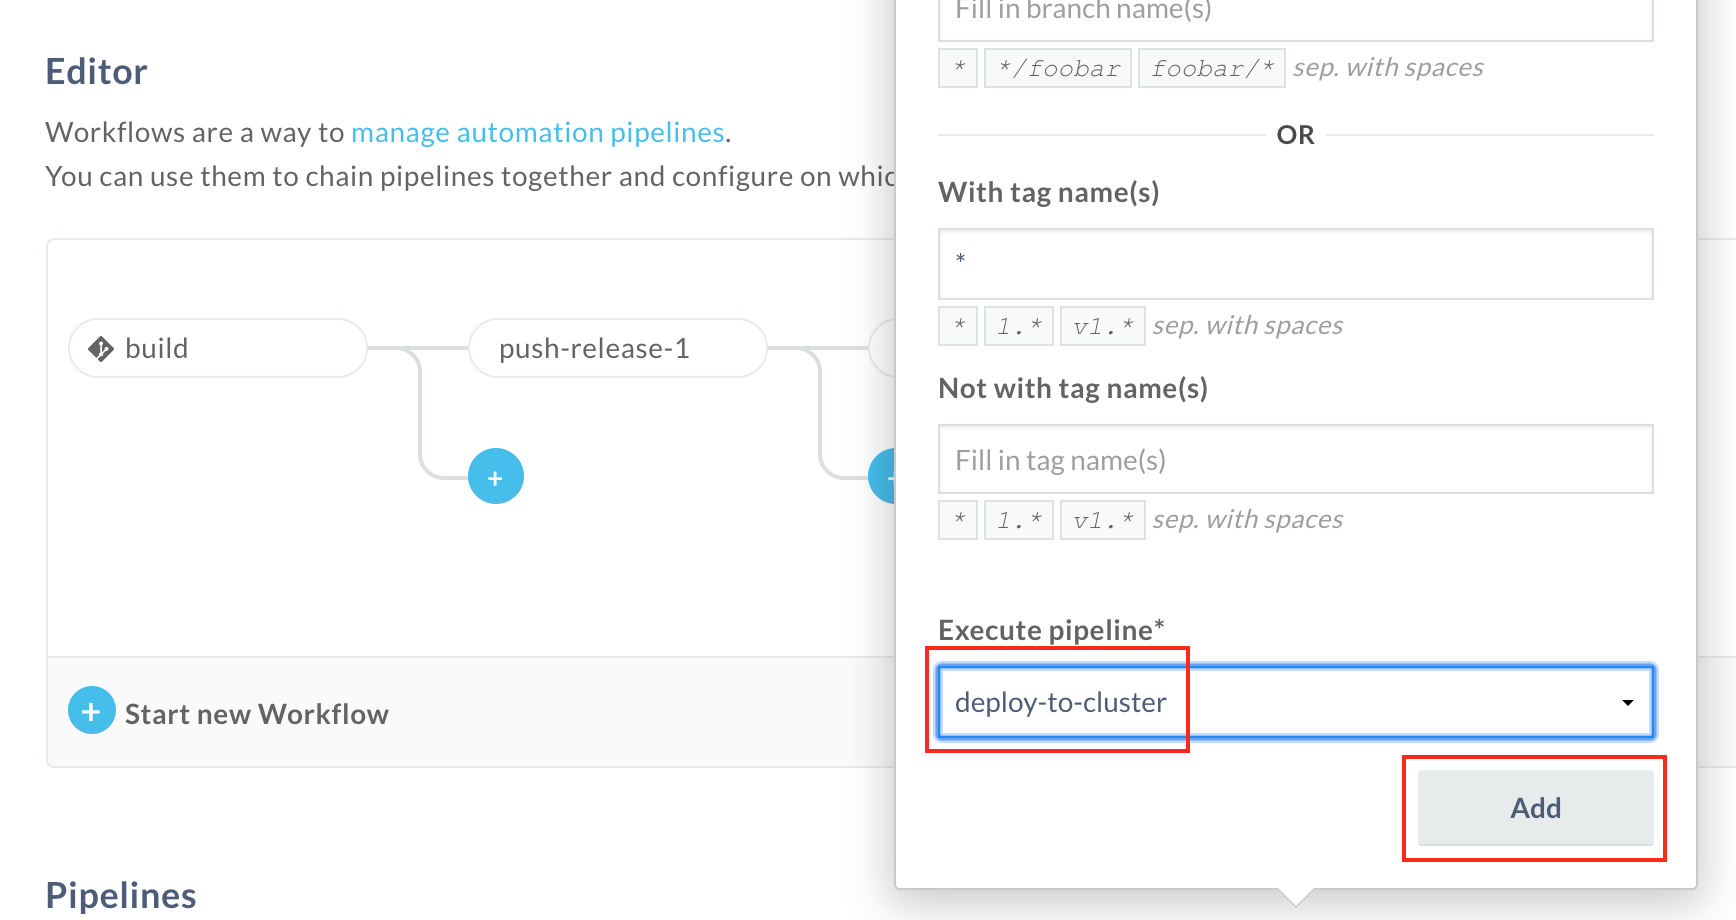
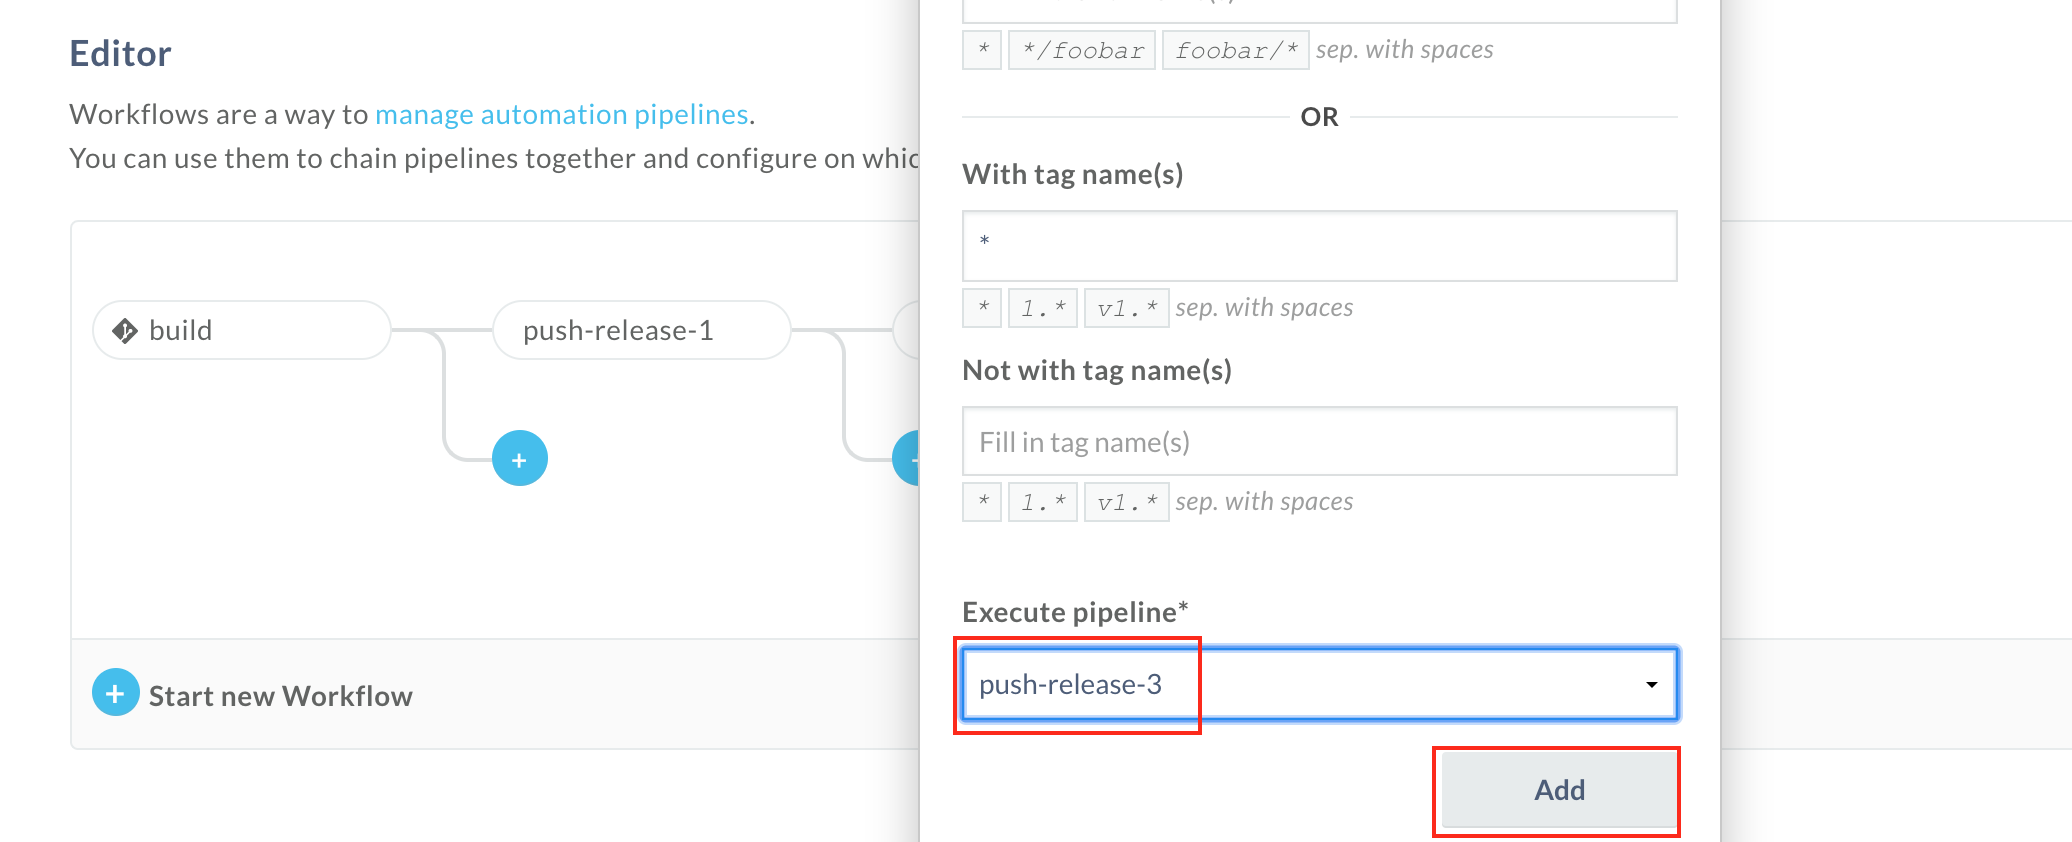
2019-07-07 16:32:56

diff --git a/springboot-movie-people-api/src/main/java/com/example/moviepeople/controller/MoviePeopleCollectController.java b/springboot-movie-people-api/src/main/java/com/example/moviepeople/controller/MoviePeopleCollectController.java
@@ -12,6 +12,7 @@ import org.springframework.boot.SpringApplication;
 import org.springframework.boot.autoconfigure.EnableAutoConfiguration;
 import org.springframework.data.domain.Page;
 import org.springframework.data.domain.Pageable;
+import org.springframework.web.bind.annotation.CrossOrigin;
 import org.springframework.web.bind.annotation.PathVariable;
 import org.springframework.web.bind.annotation.RequestMapping;
 import org.springframework.web.bind.annotation.RequestMethod;
@@ -19,6 +20,7 @@ import org.springframework.web.bind.annotation.RestController;
 
 @RestController
 @EnableAutoConfiguration
+@CrossOrigin("*")
 public class MoviePeopleCollectController {
 
     @Autowired

diff --git a/README.md b/README.md
@@ -380,6 +380,14 @@ TO-DO 다운로드 할 수 있는 경로를 따로 지정해서 설치하도록 
       steps:
         - internal/springboot-docker-push:
             .... spring-boot 서비스 컨테이너 이미지 생성, 이미지 푸시
+    push-release-3:
+      steps:
+        - script:
+            .... 
+        - internal/docker-build:
+            .... 2개의 서비스를 사용하는 프론트엔드 애플리케이션 컨테이너 이미지 생성, 이미지 푸시
+        - internal/docker-push:
+            .... 이미지 푸시
 
     # deploy-to-cluster 파이프라인 입니다. 두 개의 서비스에 대한 Pod를 Kubernetes 노드에 생성하고 서비스로 노출합니다.
     deploy-to-cluster:
@@ -413,6 +421,13 @@ TO-DO 다운로드 할 수 있는 경로를 따로 지정해서 설치하도록 
       - kubectl:
           name: deploy springboot-movie-people-api to kubernetes
           ... springboot-movie-people-api 서비스 Pod 생성
+      - script:
+          name: "Visualise Kubernetes config"
+          code: cat kube-jet-movie-msa-ui-config.yml
+
+      - kubectl:
+          name: deploy jet-movie-msa-ui to kubernetes
+          ... jet-movie-msa-ui 서비스 Pod 생성
     ```
 
 * 위 wercker.yml에는 다음과 같이 4개의 파이프라인을 임의로 지정했습니다. 
@@ -437,7 +452,11 @@ TO-DO 다운로드 할 수 있는 경로를 따로 지정해서 설치하도록 
 
     ![](images/wercker-create-pipeline-push-2.png)
 
-* 상단 **Workflows**탭을 클릭 후 동일하게 네 번째 파이프라인인 **deploy-to-cluster**를 입력하고 **Create**버튼을 클릭합니다.
+* 동일하게 네 번째 파이프라인인 **push-release-3**를 입력하고 **Create**버튼을 클릭합니다.
+
+    ![](images/wercker-create-pipeline-push-3.png)
+
+* 동일하게 다섯 번째 파이프라인인 **deploy-to-cluster**를 입력하고 **Create**버튼을 클릭합니다.
 
     ![](images/wercker-create-pipeline-2.png)
 
@@ -461,9 +480,17 @@ TO-DO 다운로드 할 수 있는 경로를 따로 지정해서 설치하도록 
 
     ![](images/wercker-workflow-add-4.png)
 
-* **deploy-to-cluster** 선택 후 **Add**버튼을 클릭 합니다.
+* **push-release-3** 선택 후 **Add**버튼을 클릭 합니다.
 
     ![](images/wercker-workflow-add-5.png)
+
+* **push-release-3** 파이프라인 옆 **+** 아이콘을 클릭 합니다.
+
+    ![](images/wercker-workflow-add-6.png)
+
+* **deploy-to-cluster** 선택 후 **Add**버튼을 클릭 합니다.
+
+    ![](images/wercker-workflow-add-7.png)
 
 * 완성된 Wercker Workflow 모습입니다.
     ![](images/wercker-workflow-complete.png)
@@ -511,5 +538,15 @@ TO-DO 다운로드 할 수 있는 경로를 따로 지정해서 설치하도록 
         ```
         http://{External_IP}:31000/moviepeople
         ```
+    * Movie Web Page
+        ```
+        http://{External_IP}
+        ```
 
 
+
+        추가해야 할 내용들..
+        1. MS Powershell 화면 캡쳐
+        2. JET 관련 부분 GitHub 이미지 확인
+        3. Wercker Pipeline에 jet 관련된 부분 추가 (push-release-3)
+        4. JET에 MoviePeople 추가할 지...
